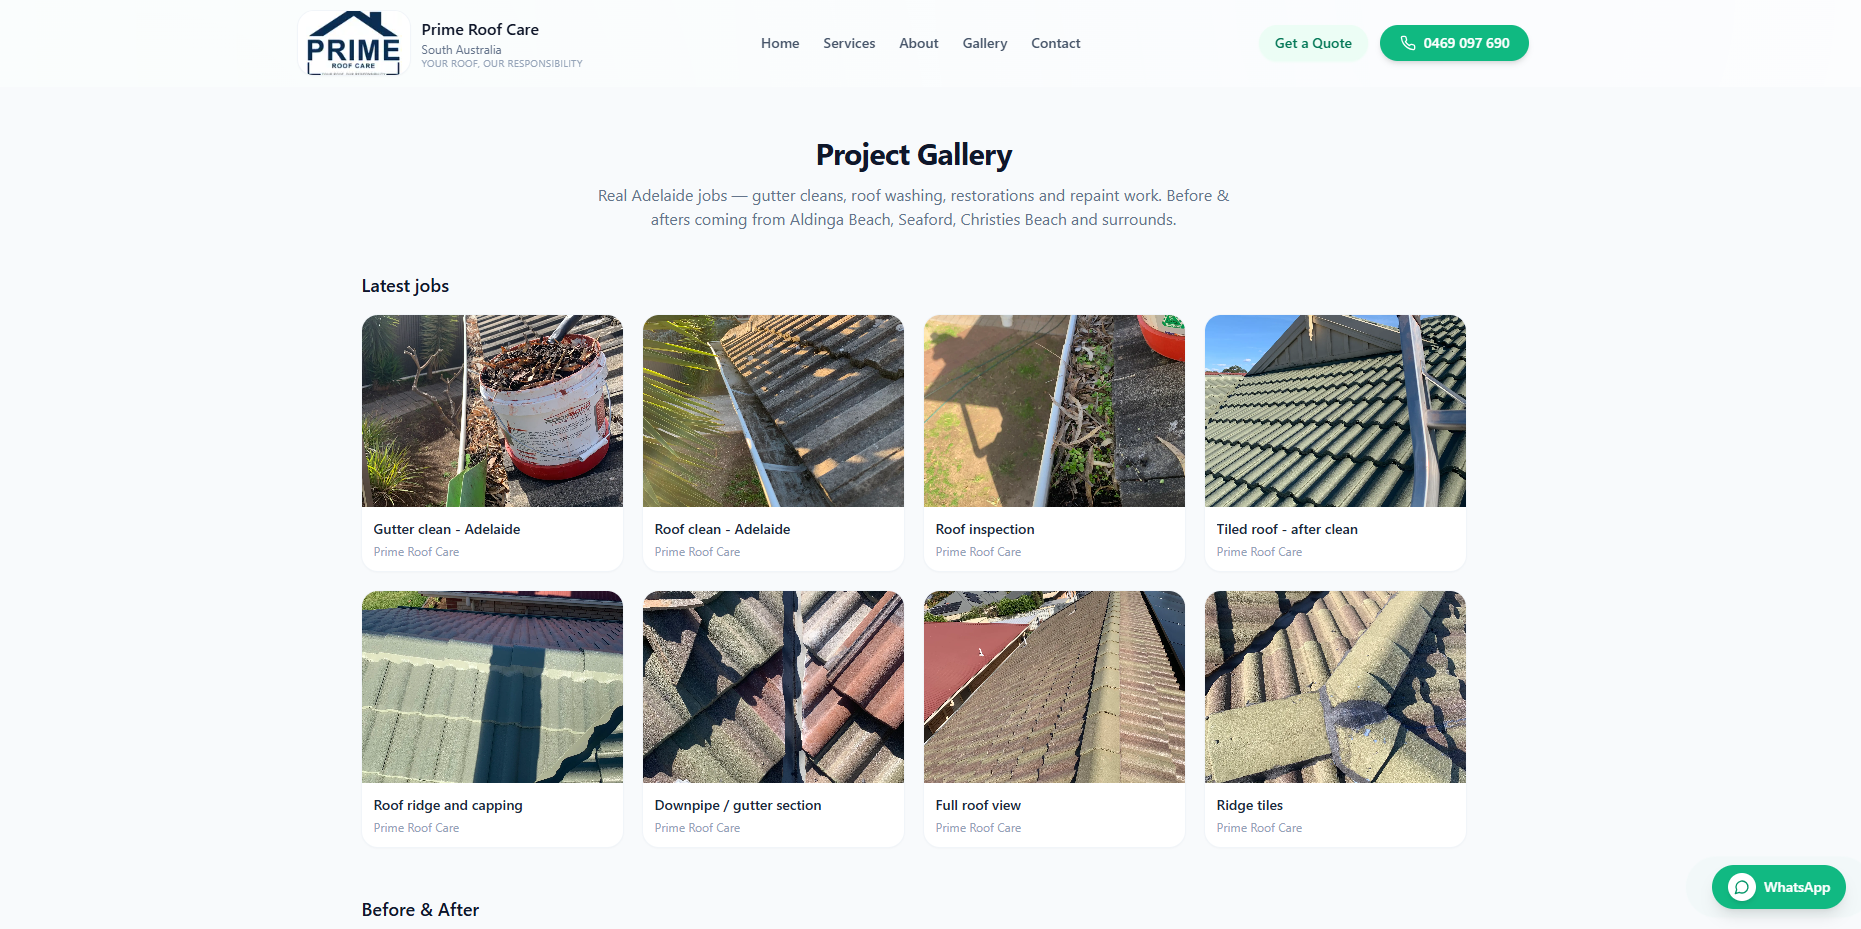
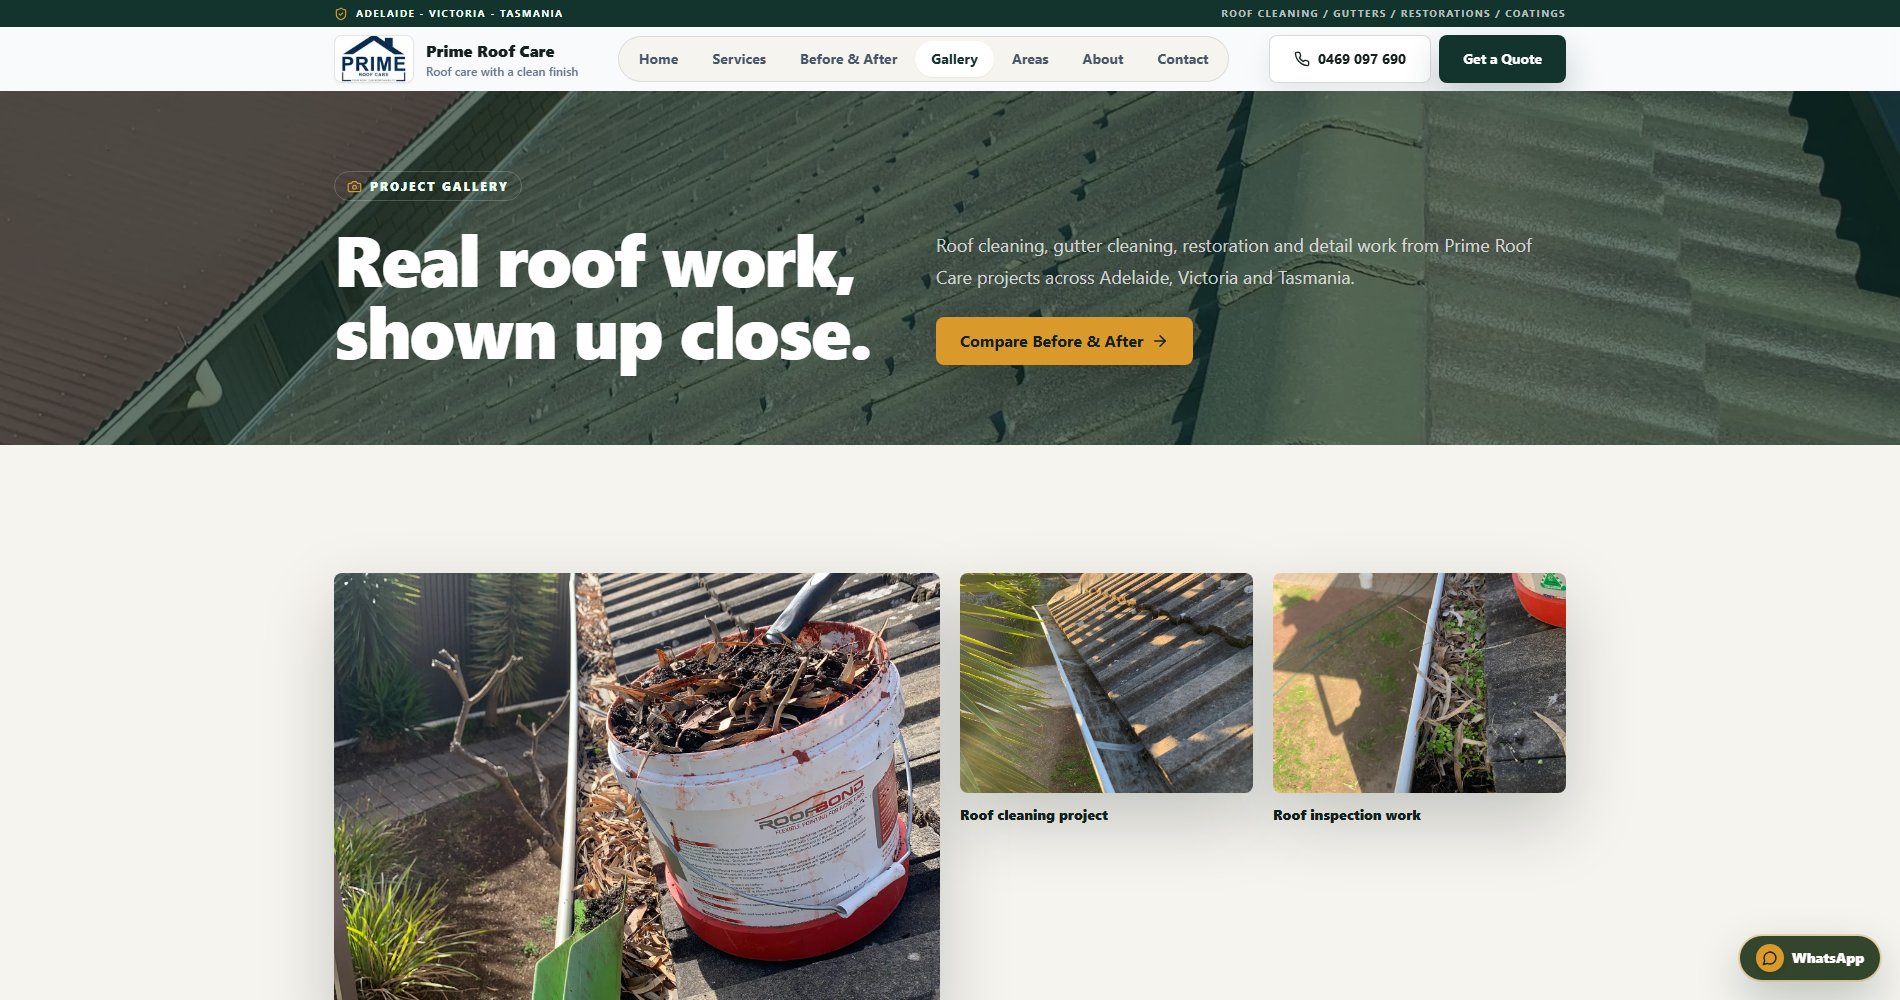
Sync portfolio with real project changes: Prime Roof Care redesign, Northstar rebrand
- Prime Roof Care: site was completely redesigned (new dark-green theme,
  expanded service area to Adelaide/VIC/TAS) and rebuilt from static
  HTML/CSS into Next.js + React + Framer Motion. Refreshed both
  screenshots and fixed the stack badge in data/projects.ts and
  ResumeProjects.tsx, which still claimed plain HTML/CSS.
- Northstar Sales Dashboard: rewrote the case-study copy to match the
  dual-channel B2B rebuild (new KPIs, regions, guardrail) and captured
  a fresh screenshot of the actual new dashboard.
- Glide Education: recaptured the hero screenshot, which had caught the
  typewriter headline mid-animation ("...settling in Austral").

FixoraHub and the confidential Compliance Platform were checked and
found already current - no changes needed.

diff --git a/data/projects.ts b/data/projects.ts
@@ -155,7 +155,7 @@ export const projects: PortfolioProject[] = [
     ],
     liveUrl: "https://www.primeroofcare.com.au/",
     liveLabel: "primeroofcare.com.au",
-    stack: ["HTML", "CSS", "Tailwind CSS", "Responsive Design"],
+    stack: ["Next.js", "React", "Tailwind CSS", "Framer Motion"],
     businessGoal:
       "Give a local service business a clearer online presence that explains services quickly, builds trust, and supports customer enquiries.",
     role: "Website build, launch support, and ongoing updates",
@@ -252,11 +252,11 @@ export const projects: PortfolioProject[] = [
   },
   {
     slug: "sales-dashboard",
-    title: "Northstar Sales Dashboard",
-    subtitle: "Interactive sales analytics dashboard, Streamlit + Plotly",
-    impact: "Turned raw sales data into a filterable, decision-ready dashboard with live KPI tracking.",
+    title: "Northstar Retail & B2B Sales Dashboard",
+    subtitle: "Dual-channel sales analytics for a hybrid AU retail & B2B distributor",
+    impact: "Turned raw dual-channel transaction data into a filterable, decision-ready dashboard with live revenue, margin, and channel-mix tracking.",
     overview:
-      "A Streamlit sales dashboard with generated sample data, interactive filters, KPI cards, and revenue, regional, product, and channel breakdowns.",
+      "A Streamlit dashboard modeling Northstar Retail & B2B Solutions, a hybrid Australian retail and B2B distributor selling through Direct B2B, Online Store, Wholesale, and Partner Network channels across SA, NSW, VIC, QLD, and WA, with cached data loading and interactive filters.",
     image: "/projects/sales-dashboard-cover.png",
     accentImage: "/projects/sales-dashboard-cover.png",
     images: [],
@@ -265,38 +265,38 @@ export const projects: PortfolioProject[] = [
     liveLabel: "github.com/prodev1996/sales-dashboard",
     stack: ["Python", "Streamlit", "Pandas", "Plotly"],
     businessGoal:
-      "Practice turning raw sales data into a dashboard someone could actually use to make decisions.",
+      "Model a realistic dual-channel business, consumer retail plus B2B wholesale, and turn its raw transaction data into a dashboard someone could actually use to make decisions.",
     role: "Solo build: data generation, analysis logic, and dashboard UI",
     measurableOutcome:
-      "A working interactive dashboard with KPI cards for revenue, orders, profit, and average order value, filterable by date range, region, segment, and channel.",
+      "A cached, filterable dashboard with 4 KPI cards (revenue, net profit and margin, orders, AOV) and 4 charts covering trend, region, channel mix, and top products, across roughly 1,000 transactions.",
     trustSignals: [
-      "Interactive Streamlit app",
-      "Filterable by date, region, segment, channel",
-      "Pandas + Plotly analysis",
+      "Dynamic multi-filter sidebar",
+      "Dual-axis revenue & profit trend",
+      "Handles empty filter results gracefully",
     ],
     proofPoints: [
-      "Built a deterministic sample sales dataset generator so the dashboard has realistic data to work with out of the box.",
-      "Implemented KPI cards for revenue, orders, profit, and average order value, alongside revenue trend, regional performance, top products, and channel mix visuals.",
-      "Added a performance summary table for quickly slicing results by region and customer segment.",
+      "Built a deterministic transaction generator modeling a dual-channel business: 5 AU regions, 3 customer segments, 4 sales channels, and 4 product categories, with segment-aware channel weighting so the data reflects a coherent business model rather than pure noise.",
+      "Implemented KPI cards for revenue, net profit and margin, order count, and average order value, plus a dual-axis revenue/profit trend, regional performance, channel mix, and a top-10-products chart colored by category.",
+      "Added a guardrail: filter combinations with zero matching rows show a clean alert banner instead of an unhandled exception.",
     ],
     skillsShown: [
-      "Data visualization (Plotly)",
+      "Data visualization (Plotly, dual-axis charts)",
       "Interactive filtering & state",
       "Pandas data manipulation",
-      "Dashboard/UI design for analytics",
+      "Defensive UX for edge cases",
     ],
     supportProof: [
-      "Structured the project cleanly: app, sample-data generator, and requirements kept separate for easy setup.",
-      "Documented setup for both standard virtual environments and workspace-local installs, for machines where venv creation is restricted.",
+      "Structured the project cleanly: app, sample-data generator, and config kept separate, with the dataset auto-generated on first run if missing.",
+      "Used @st.cache_data so filtering and re-rendering stay fast without re-reading the CSV on every interaction.",
     ],
     takeaway:
       "This is the kind of dashboard work that sits right at the intersection of my SQL and data background and the reporting support roles I'm aiming at.",
     challenge:
-      "Sales data is only useful if the person looking at it can slice it the way they actually think about the business, by region, channel, and time period, without digging through raw spreadsheets.",
+      "Sales data is only useful if the person looking at it can slice it the way they actually think about the business, by region, channel, segment, and time period, without digging through raw spreadsheets or crashing on an empty filter.",
     solution:
-      "I built interactive filters into the dashboard so revenue, orders, and profit all update live, backed by a generated dataset with realistic seasonality and variance.",
+      "I built a generator that models a coherent dual-channel business, then wired cached, interactive filters into the dashboard so every KPI and chart updates live, with a clean fallback when a filter combination returns nothing.",
     outcome:
-      "A working dashboard covering the KPIs, trends, and breakdowns a sales or ops team would actually want to check regularly.",
+      "A working dashboard covering the KPIs, trends, and breakdowns a sales or ops team would actually want to check regularly, for a business with both consumer and B2B sides.",
     supportValue: [
       "Demonstrates practical data analysis and visualization skill.",
       "Shows comfort translating raw data into decision-ready views.",

diff --git a/components/ResumeProjects.tsx b/components/ResumeProjects.tsx
@@ -29,7 +29,7 @@ export default function ResumeProjects() {
     {
       title: "Prime Roof Care",
       subtitle: "Service business website for enquiries and trust",
-      meta: "HTML · CSS · Tailwind CSS · Responsive Design",
+      meta: "Next.js · React · Tailwind CSS · Framer Motion",
       bullets: [
         "Built a mobile-friendly service website structured around enquiries, trust, and practical business needs.",
         "Managed hosting updates and content changes after deployment to keep the site current and usable.",
